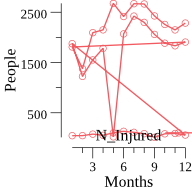
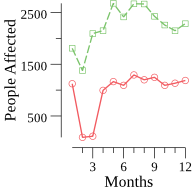
add final

diff --git a/app/data.html b/app/data.html
@@ -14,9 +14,9 @@
       <table class="wt-responsive-table table-striped">
           <thead>
             <tr>
-              <th class="text-center span1">Month</th>
-              <th class="text-center span1">Injured</th>
-              <th class="text-center span1">Killed</th>
+              <th class="text-center span1"><font color="#000000">Month</font></th>
+              <th class="text-center span1"><font color="#008000">Injured</font></th>
+              <th class="text-center span1"><font color="#ff0000">Killed</font></th>
             </tr>
           </thead>
           <tbody>

diff --git a/app/js/controllers.js b/app/js/controllers.js
@@ -17,6 +17,7 @@ angular.module('myApp.controllers', [])
     }
 
     $scope.years = [
+      { name : '2013', value: '2013' },
       { name : '2014', value: '2014' },
       { name : '2015', value: '2015' },
       { name : '2016', value: '2016' },

diff --git a/data/processGlyphs.go b/data/processGlyphs.go
@@ -48,7 +48,7 @@ func main() {
 }
 
 func createGlyphSummaryByYear(year string) {
-
+	months = nil
 	for i := 1; i < 13; i++ {
 		y, err := strconv.Atoi(year)
 		check(err)
@@ -85,16 +85,17 @@ func addToGraphData(month, n_injured, n_killed string) {
 func makeGraph(year string) {
 
 	// Prepare the data for plotting
-	xys := preparePlotData()
+	xys1 := preparePlotData1()
+	xys2 := preparePlotData2()
 
 	// Create and save the plot.
-	if err := makePlot(year, xys); err != nil {
+	if err := makePlot(year, xys1, xys2); err != nil {
 		log.Fatal(err)
 	}
 }
 
 // preparePlotData prepares the raw input data for plotting.
-func preparePlotData() plotter.XYs {
+func preparePlotData2() plotter.XYs {
 	pts := make(plotter.XYs, len(months))
 	var i int
 
@@ -111,8 +112,26 @@ func preparePlotData() plotter.XYs {
 	return pts
 }
 
+// preparePlotData prepares the raw input data for plotting.
+func preparePlotData1() plotter.XYs {
+	pts := make(plotter.XYs, len(months))
+	var i int
+
+	for _, month := range months {
+		n_killed, err := strconv.ParseFloat(month.n_killed, 64)
+		check(err)
+		pts[i].Y = float64(n_killed)
+		month, err := strconv.ParseFloat(month.month, 64)
+		check(err)
+		pts[i].X = float64(month)
+		i++
+	}
+
+	return pts
+}
+
 // makePlots makes the plots for the year-month.
-func makePlot(year string, xys plotter.XYs) error {
+func makePlot(year string, xys1, xys2 plotter.XYs) error {
 
 	// Create a plot value.
 	p, err := plot.New()
@@ -121,11 +140,11 @@ func makePlot(year string, xys plotter.XYs) error {
 	}
 
 	// Label the plot.
-	p.Y.Label.Text = "People"
+	p.Y.Label.Text = "People Affected"
 	p.X.Label.Text = "Months"
 
 	// Add both sets of points: n_injured, n_killed by month
-	if err := plotutil.AddLinePoints(p, "N_Injured", xys); err != nil {
+	if err := plotutil.AddLinePoints(p, "", xys1, "", xys2); err != nil {
 		return errors.Wrap(err, "Could not add lines to plot")
 	}
 
